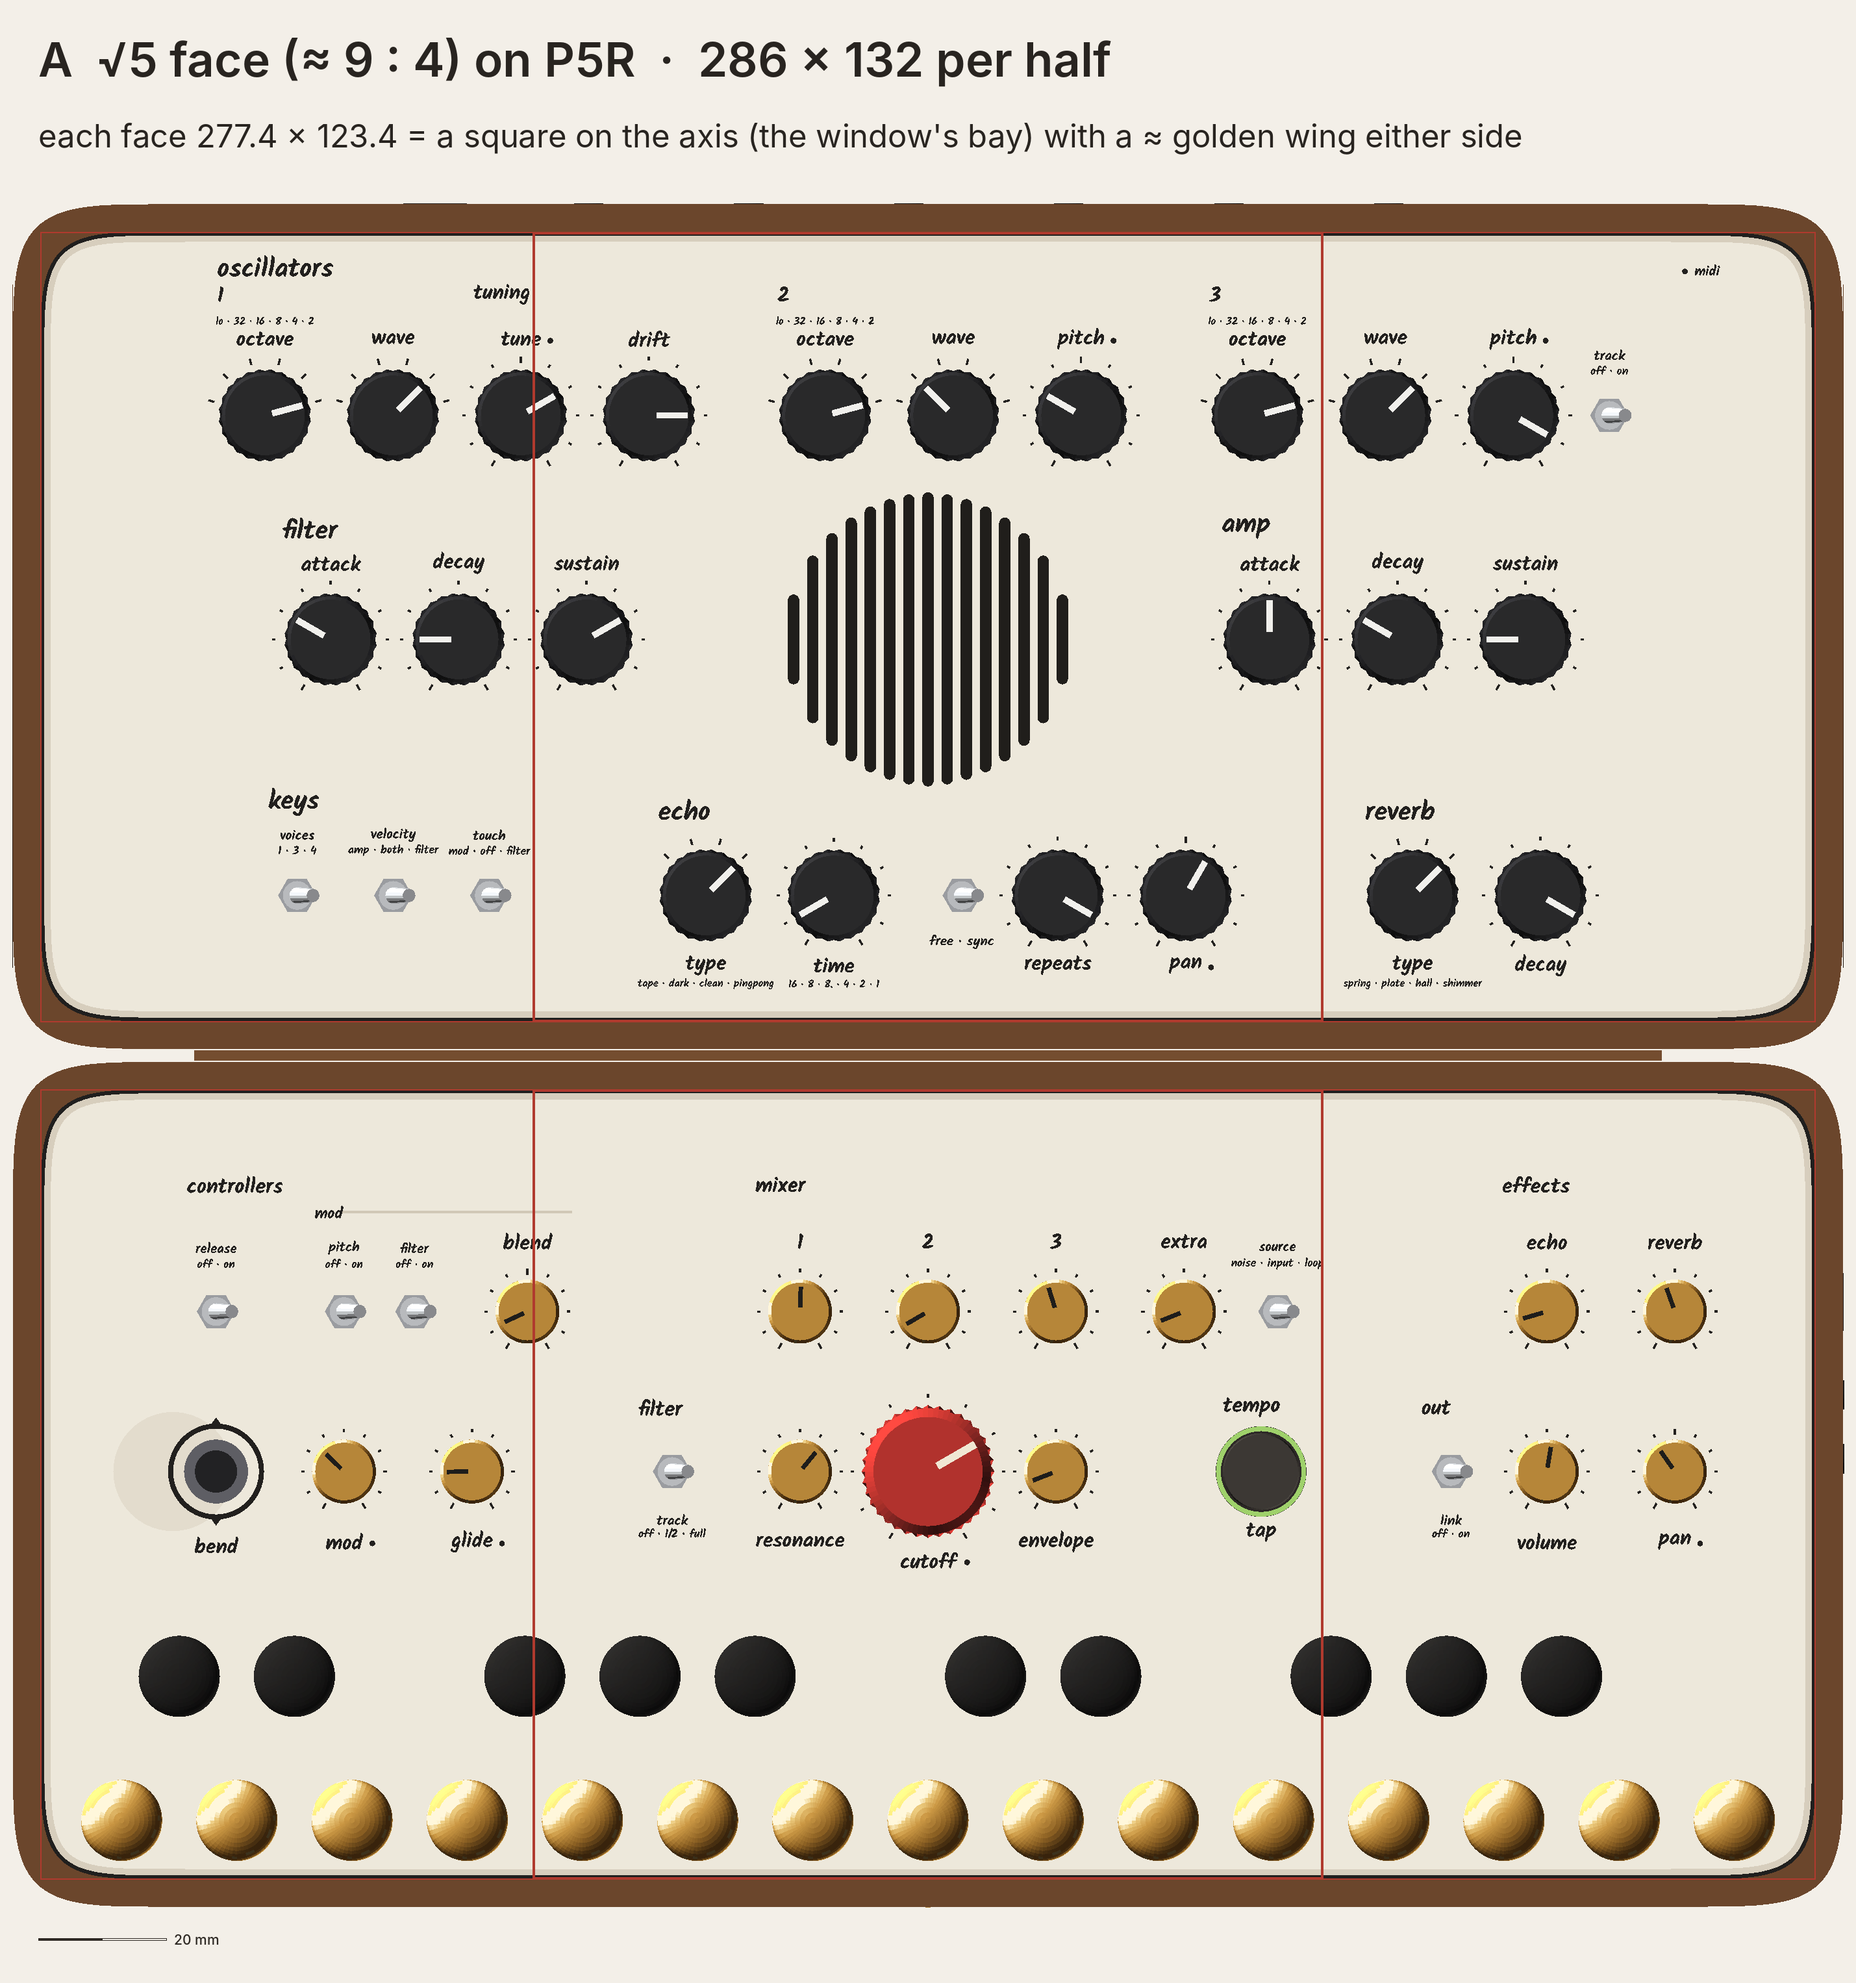
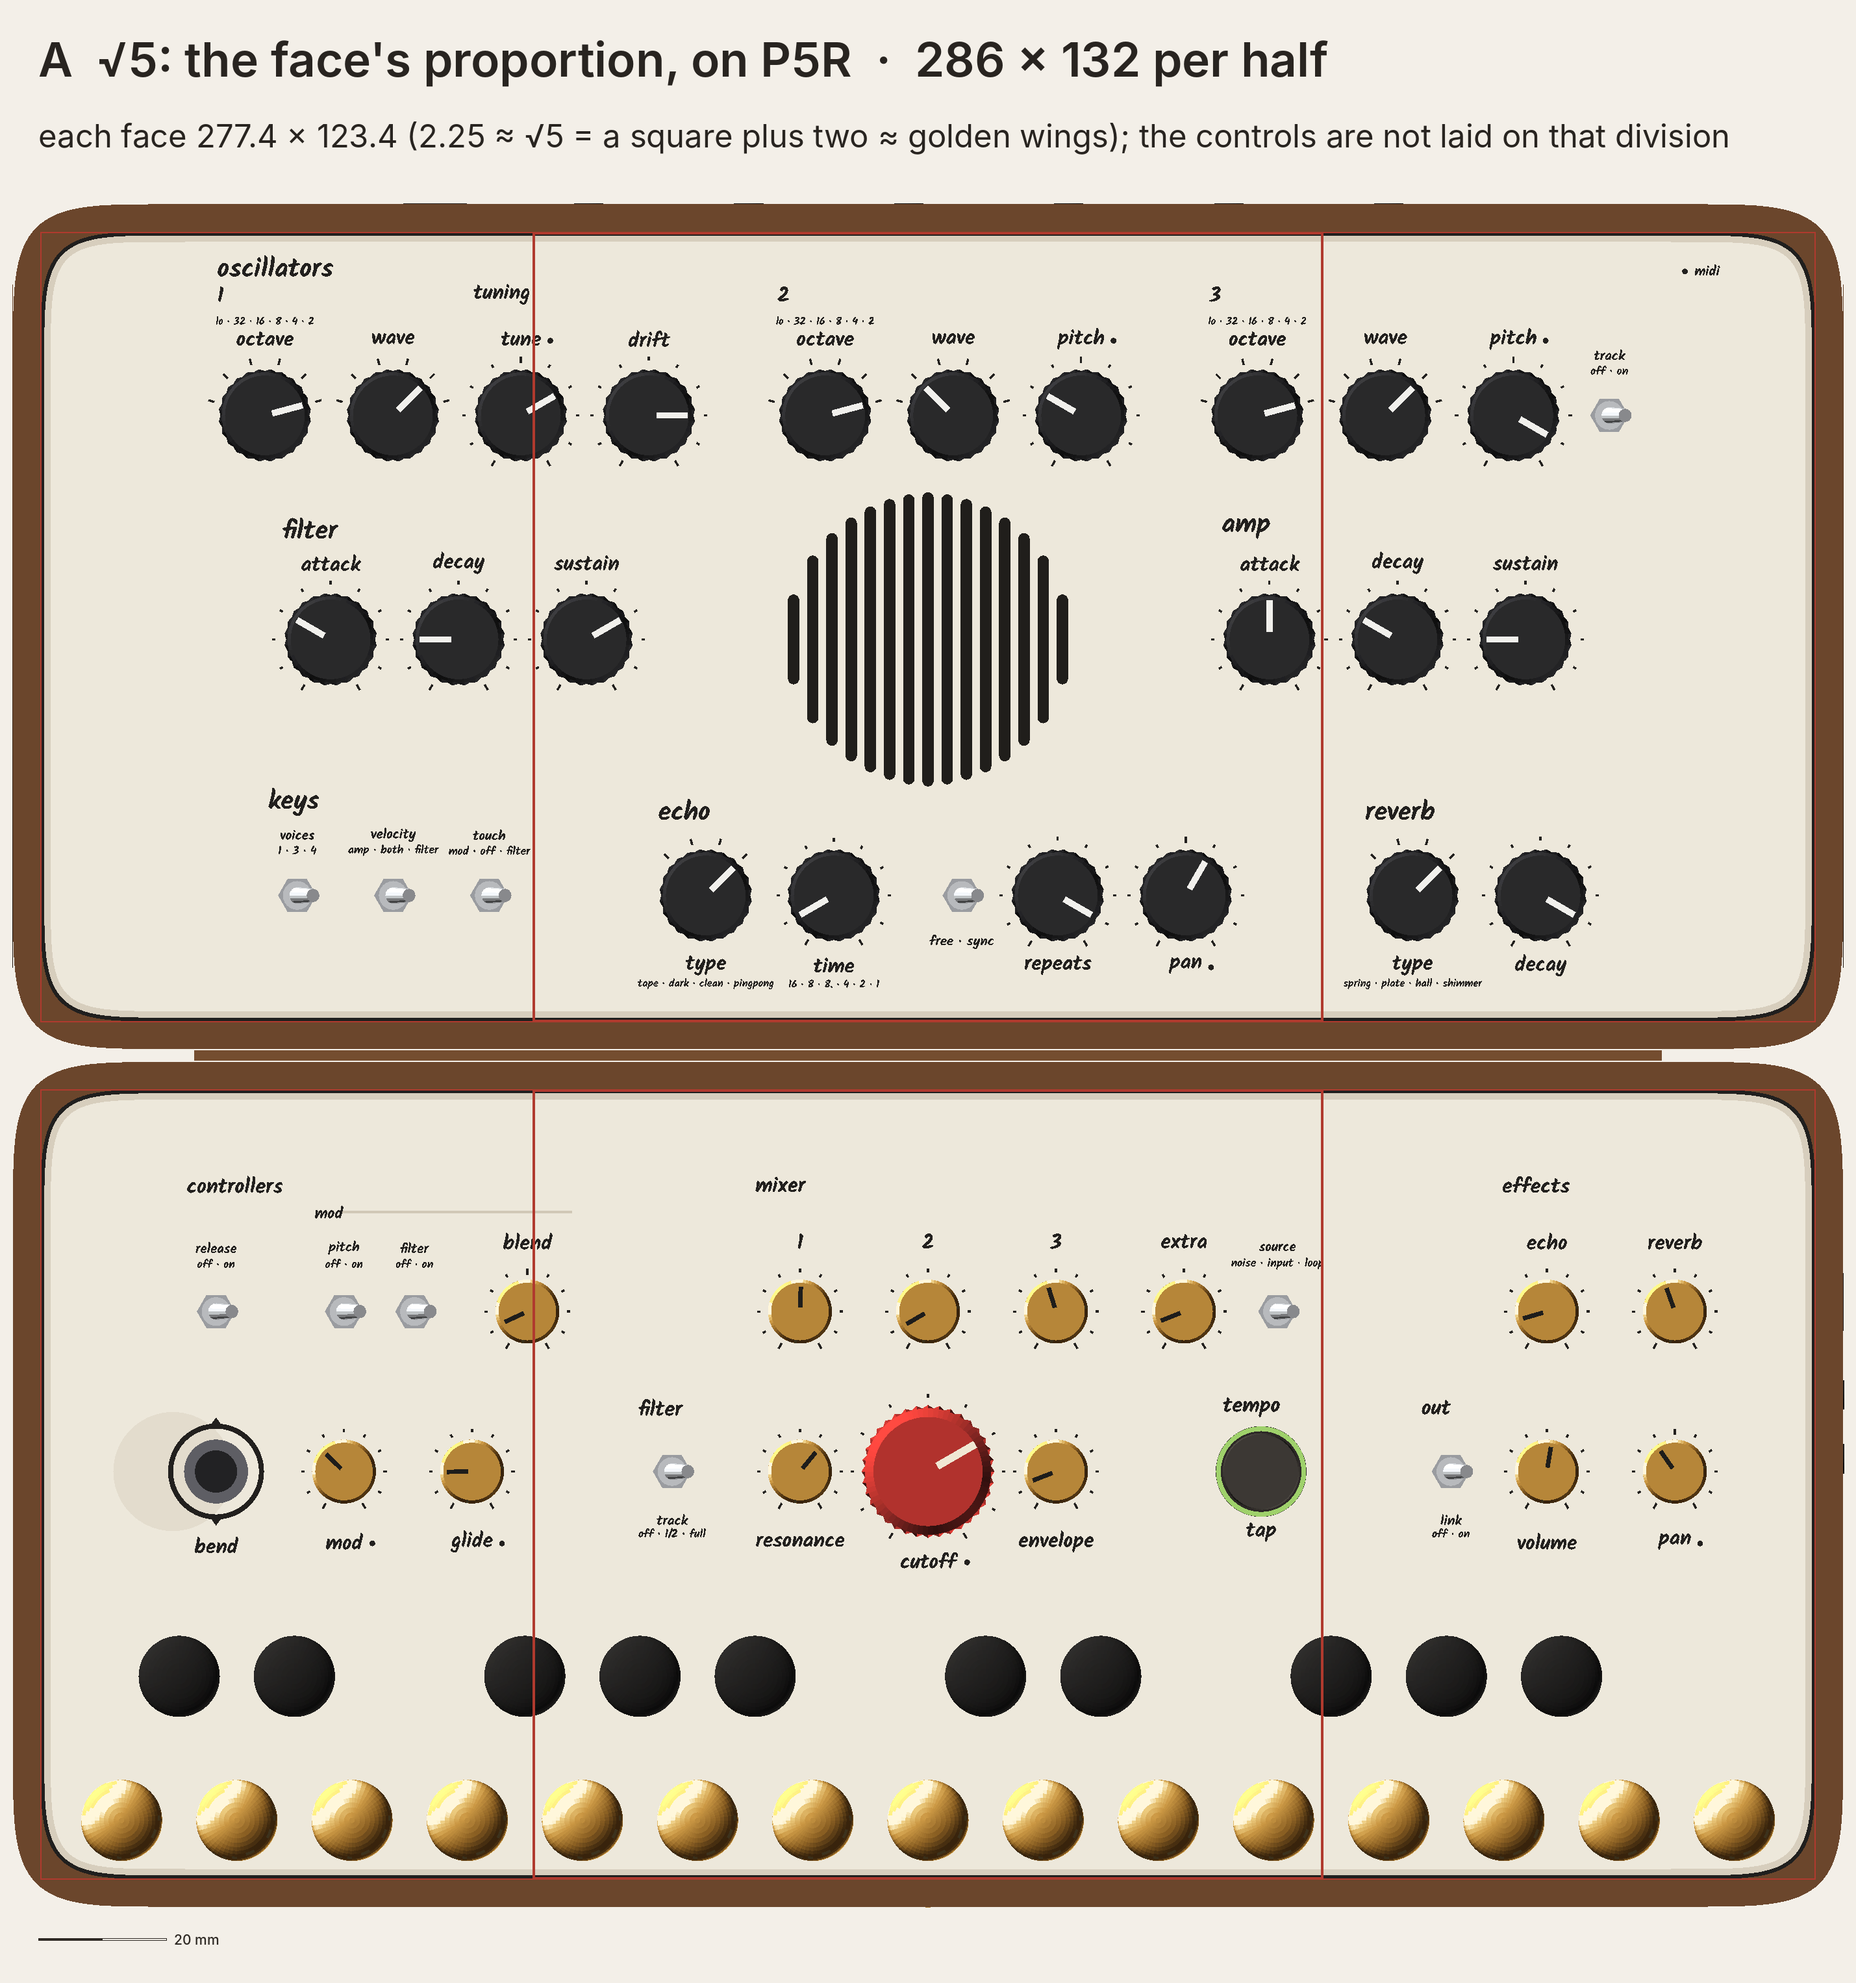
CATHEDRAL ratio overlays: far-wall socket mouths flush (dark ticks on C's top edge gone); A re-captioned honestly as the face's proportion, no bay claim

Changed region(s): [[0.0934, 0.0, 0.9342, 0.0934]]

diff --git a/design/concepts/_mock-src/rb.py b/design/concepts/_mock-src/rb.py
@@ -697,9 +697,11 @@ class Branch(Fold):
         if plate:
             s += self.lid_face(controls)
         yw = L0 + D
-        s += box(r5.FO_IO_PWR - 5, yw - 0.3, 5.5, r5.FO_IO_PWR + 5, yw + 0.1, 9.5, "#2a2826")
+        # the far wall's USB / jack mouths: 0.02 proud of the wall (were 0.1 / 0.15, which showed as dark ticks past
+        # the wall's rounded edge in exact top views; real sockets sit flush or recessed)
+        s += box(r5.FO_IO_PWR - 5, yw - 0.38, 5.5, r5.FO_IO_PWR + 5, yw + 0.02, 9.5, "#2a2826")
         for x in r5.FO_IO_JACKS:
-            s += f'{c("#151515")} translate([{x},{yw-0.25},7.5]) rotate([-90,0,0]) cylinder(h=0.4,d=4.6,$fn=24);\n'
+            s += f'{c("#151515")} translate([{x},{yw-0.38},7.5]) rotate([-90,0,0]) cylinder(h=0.4,d=4.6,$fn=24);\n'
         s += self.lid_ends(stowed)
         if back_detail:
             s += self.lid_back(walnut)
@@ -2241,12 +2243,12 @@ def top_tall(scene, name, x0, y0, x1, y1, px_per_mm=8, grain_classes=()):
     finally:
         ld.shot_top = old
 
-def nave_env(lid, **env):
+def nave_env(lid, grain=True, **env):
     """a Nave built with layout_check env switches (CATHEDRAL_VCO4, CATHEDRAL_P5R_KEYS) set only while it loads."""
     old = {k: os.environ.get(k) for k in env}
     os.environ.update(env)
     try:
-        return Nave(lid=lid, spine="dark")
+        return Nave(lid=lid, spine="dark", grain=grain)
     finally:
         for k, v in old.items():
             if v is None: os.environ.pop(k, None)

diff --git a/design/concepts/_mock-src/ratio_overlay.py b/design/concepts/_mock-src/ratio_overlay.py
@@ -48,8 +48,8 @@ def draw_C(d, P, lw, D):
 
 if __name__ == "__main__":
     compose("rb_nv5_R_top.png", 132.0, "cathedral-s9-P5R-ratio-A-top-9.9px-per-mm.png",
-            "A  √5 face (≈ 9 : 4) on P5R  ·  286 × 132 per half",
-            "each face 277.4 × 123.4 = a square on the axis (the window's bay) with a ≈ golden wing either side", draw_A)
+            "A  √5: the face's proportion, on P5R  ·  286 × 132 per half",
+            "each face 277.4 × 123.4 (2.25 ≈ √5 = a square plus two ≈ golden wings); the controls are not laid on that division", draw_A)
     compose("rb_s9_P5OBD_C_top.png", 147.3, "cathedral-s9-P5OBD-ratio-C-top-9.9px-per-mm.png",
             "C  double-square face on P5OB-D  ·  286 × 147.3 per half",
             "each face 277.4 × 138.7 = two squares; their seam is the axis, through the window and cutoff", draw_C)

diff --git a/design/branches/concepts/cathedral/how-it-looks-and-feels.md b/design/branches/concepts/cathedral/how-it-looks-and-feels.md
@@ -50,15 +50,15 @@ Seed: CHAMBER rev 2 + FOLD-105 v1.1. Owner record: `design/owner.md` (14:12 onwa
 | D (per half) | **132.4** (P5R today +0.4) | **143** | **147.3** (P5OB-D +2.3) |
 | face / case / open flat | 2.24 / 2.16 / 0.93 (landscape) | 2.06 / **2.00** / **1.01: a square** | **2.00** / 1.94 / 1.04 (the two faces together: **a square**) |
 | module grid (§29 A) | **56 × 25, exact** | 56 × 27.1: doesn't close | **56 × 28, exact** |
-| Why it suits CATHEDRAL | √5 is a square flanked by two golden rectangles: the window's square bay between two wings, which is how the lid already reads. The longest, lowest, most "keyboard" silhouette. | The tatami and Shaker-box proportion: closed, a double square; open, one square. The silhouettes most people would call harmonious, because the two states are one idea. | The owner's own rule: the face itself is two squares (oscillators | effects, with the window on the seam). Open, the two faces make one cream square inside the walnut. One grid, exact, from the face outward. |
+| Why it suits CATHEDRAL | √5 is a square flanked by two golden rectangles: a calm, classical outer proportion (the controls don't sit on that division). The longest, lowest, most "keyboard" silhouette. | The tatami and Shaker-box proportion: closed, a double square; open, one square. The silhouettes most people would call harmonious, because the two states are one idea. | The owner's own rule: the face itself is two squares (oscillators | effects, with the window on the seam). Open, the two faces make one cream square inside the walnut. One grid, exact, from the face outward. |
 | Closed / open read | A long slim case; open, a wide low landscape | A long box, then a square tablet | Almost a double square, then a cream square framed in walnut |
 | Cost (§30.2) | none for P5R; out for P5OB-D (below its 143 floor) | P5OB-D −2, ≈ −8 g, no re-layout, but 0 slack for the keys' switches, and the face grid doesn't divide; P5R +11, ≈ +46 g, rows re-laid | **P5OB-D +2.3, ≈ +10 g, no re-layout**, 2.3 more slack; P5R +15.3, ≈ +64 g, a wide empty band (poor) |
 
 **On the device itself** (director: A 9, C 9, B dropped). Each ratio is drawn over its own layout's exact top view:
 
 <figure>
-<img src="img/cathedral-s9-P5R-ratio-A-top-9.9px-per-mm.png" alt="P5R open flat, exact top view, with red construction lines on both faces: each face's rectangle and a square centred on the axis, its sides passing just inside the tune knob and amp attack on the lid; the window and the cutoff sit inside the square, with a near-golden wing either side.">
-<figcaption><b>A on P5R</b> (286 × 132). On each face, the √5 / 9 : 4 construction is a square on the axis with a ≈ golden wing either side (77 × 123.4, 1.60). On the lid the square holds the window and both envelopes' inner knobs; on the base it holds the filter group round CUTOFF. The layout already lives in it.</figcaption>
+<img src="img/cathedral-s9-P5R-ratio-A-top-9.9px-per-mm.png" alt="P5R open flat, exact top view, with red construction lines on both faces: each face's rectangle and a square centred on the axis, the square's sides crossing several controls.">
+<figcaption><b>A on P5R: √5, the face's proportion</b> (286 × 132). Each face is 277.4 × 123.4 (2.25, within 0.6 % of √5), and the construction shows what √5 is: a square plus two ≈ golden wings. Honestly, <b>the layout isn't laid on that division</b>: the square's sides cross tune, filter sustain, amp attack and VCO 3 on the lid, and blend and source on the base. A is a good outer proportion, not a structure the controls follow. That's the difference from C, whose seam is the axis the layout is built on.</figcaption>
 </figure>
 <figure>
 <img src="img/cathedral-s9-P5OBD-ratio-C-top-9.9px-per-mm.png" alt="P5OB-D at half height 147.3 open flat, exact top view, with red construction lines on both faces: each face's rectangle split by a vertical seam on the axis into two squares, each with its diagonal; the seam runs through the speaker window on the lid and through cutoff on the base.">
@@ -67,7 +67,7 @@ Seed: CHAMBER rev 2 + FOLD-105 v1.1. Owner record: `design/owner.md` (14:12 onwa
 
 - **P5OB-D at D 147.3 (checker):** nothing re-lays. Every lid row rides up 2.3 mm with the window (d = D − 68), so the stick landing and closing are unchanged: R-LOW 55.2, R-TALL 59.7, binding octave 2 over mod. Each half gains 2.3 mm of band; the base's is behind the battery. The violations are the same 6 by-design gaps (row 4's end gutter 32.9 → 31.9, row 2 / 3 window gaps 27.8 / 29.3 → 28.7 / 30.2). Real Kalam 0.
 
-**My recommendation: C, the double-square face** (D 147.3). It's derived from the face, as he asked, rather than from the outer box. It's the only candidate where the face ratio, the module grid (56 × 28) and the open silhouette (two faces make a square) all agree exactly. It costs P5OB-D 2.3 mm and ≈ 10 g, with no re-layout. B is the purist's case-outline answer, but its face grid doesn't close and it leaves the keys' switches no slack. **A stays right if P5R is the layout.** It's today's case, and √5 is already a good ratio, so the question then is only one of words.
+**My recommendation: C, the double-square face** (D 147.3). It's derived from the face, as he asked, rather than from the outer box. It's the only candidate where the face ratio, the module grid (56 × 28) and the open silhouette (two faces make a square) all agree exactly. It costs P5OB-D 2.3 mm and ≈ 10 g, with no re-layout. B is the purist's case-outline answer, but its face grid doesn't close and it leaves the keys' switches no slack. **A stays right if P5R is the layout.** It's today's case, and √5 is already a good outer proportion, though its square isn't a structure P5R's controls follow (see the overlay).
 
 ### P5OB-D study (systems §25): four oscillators at D 145
 <figure>
